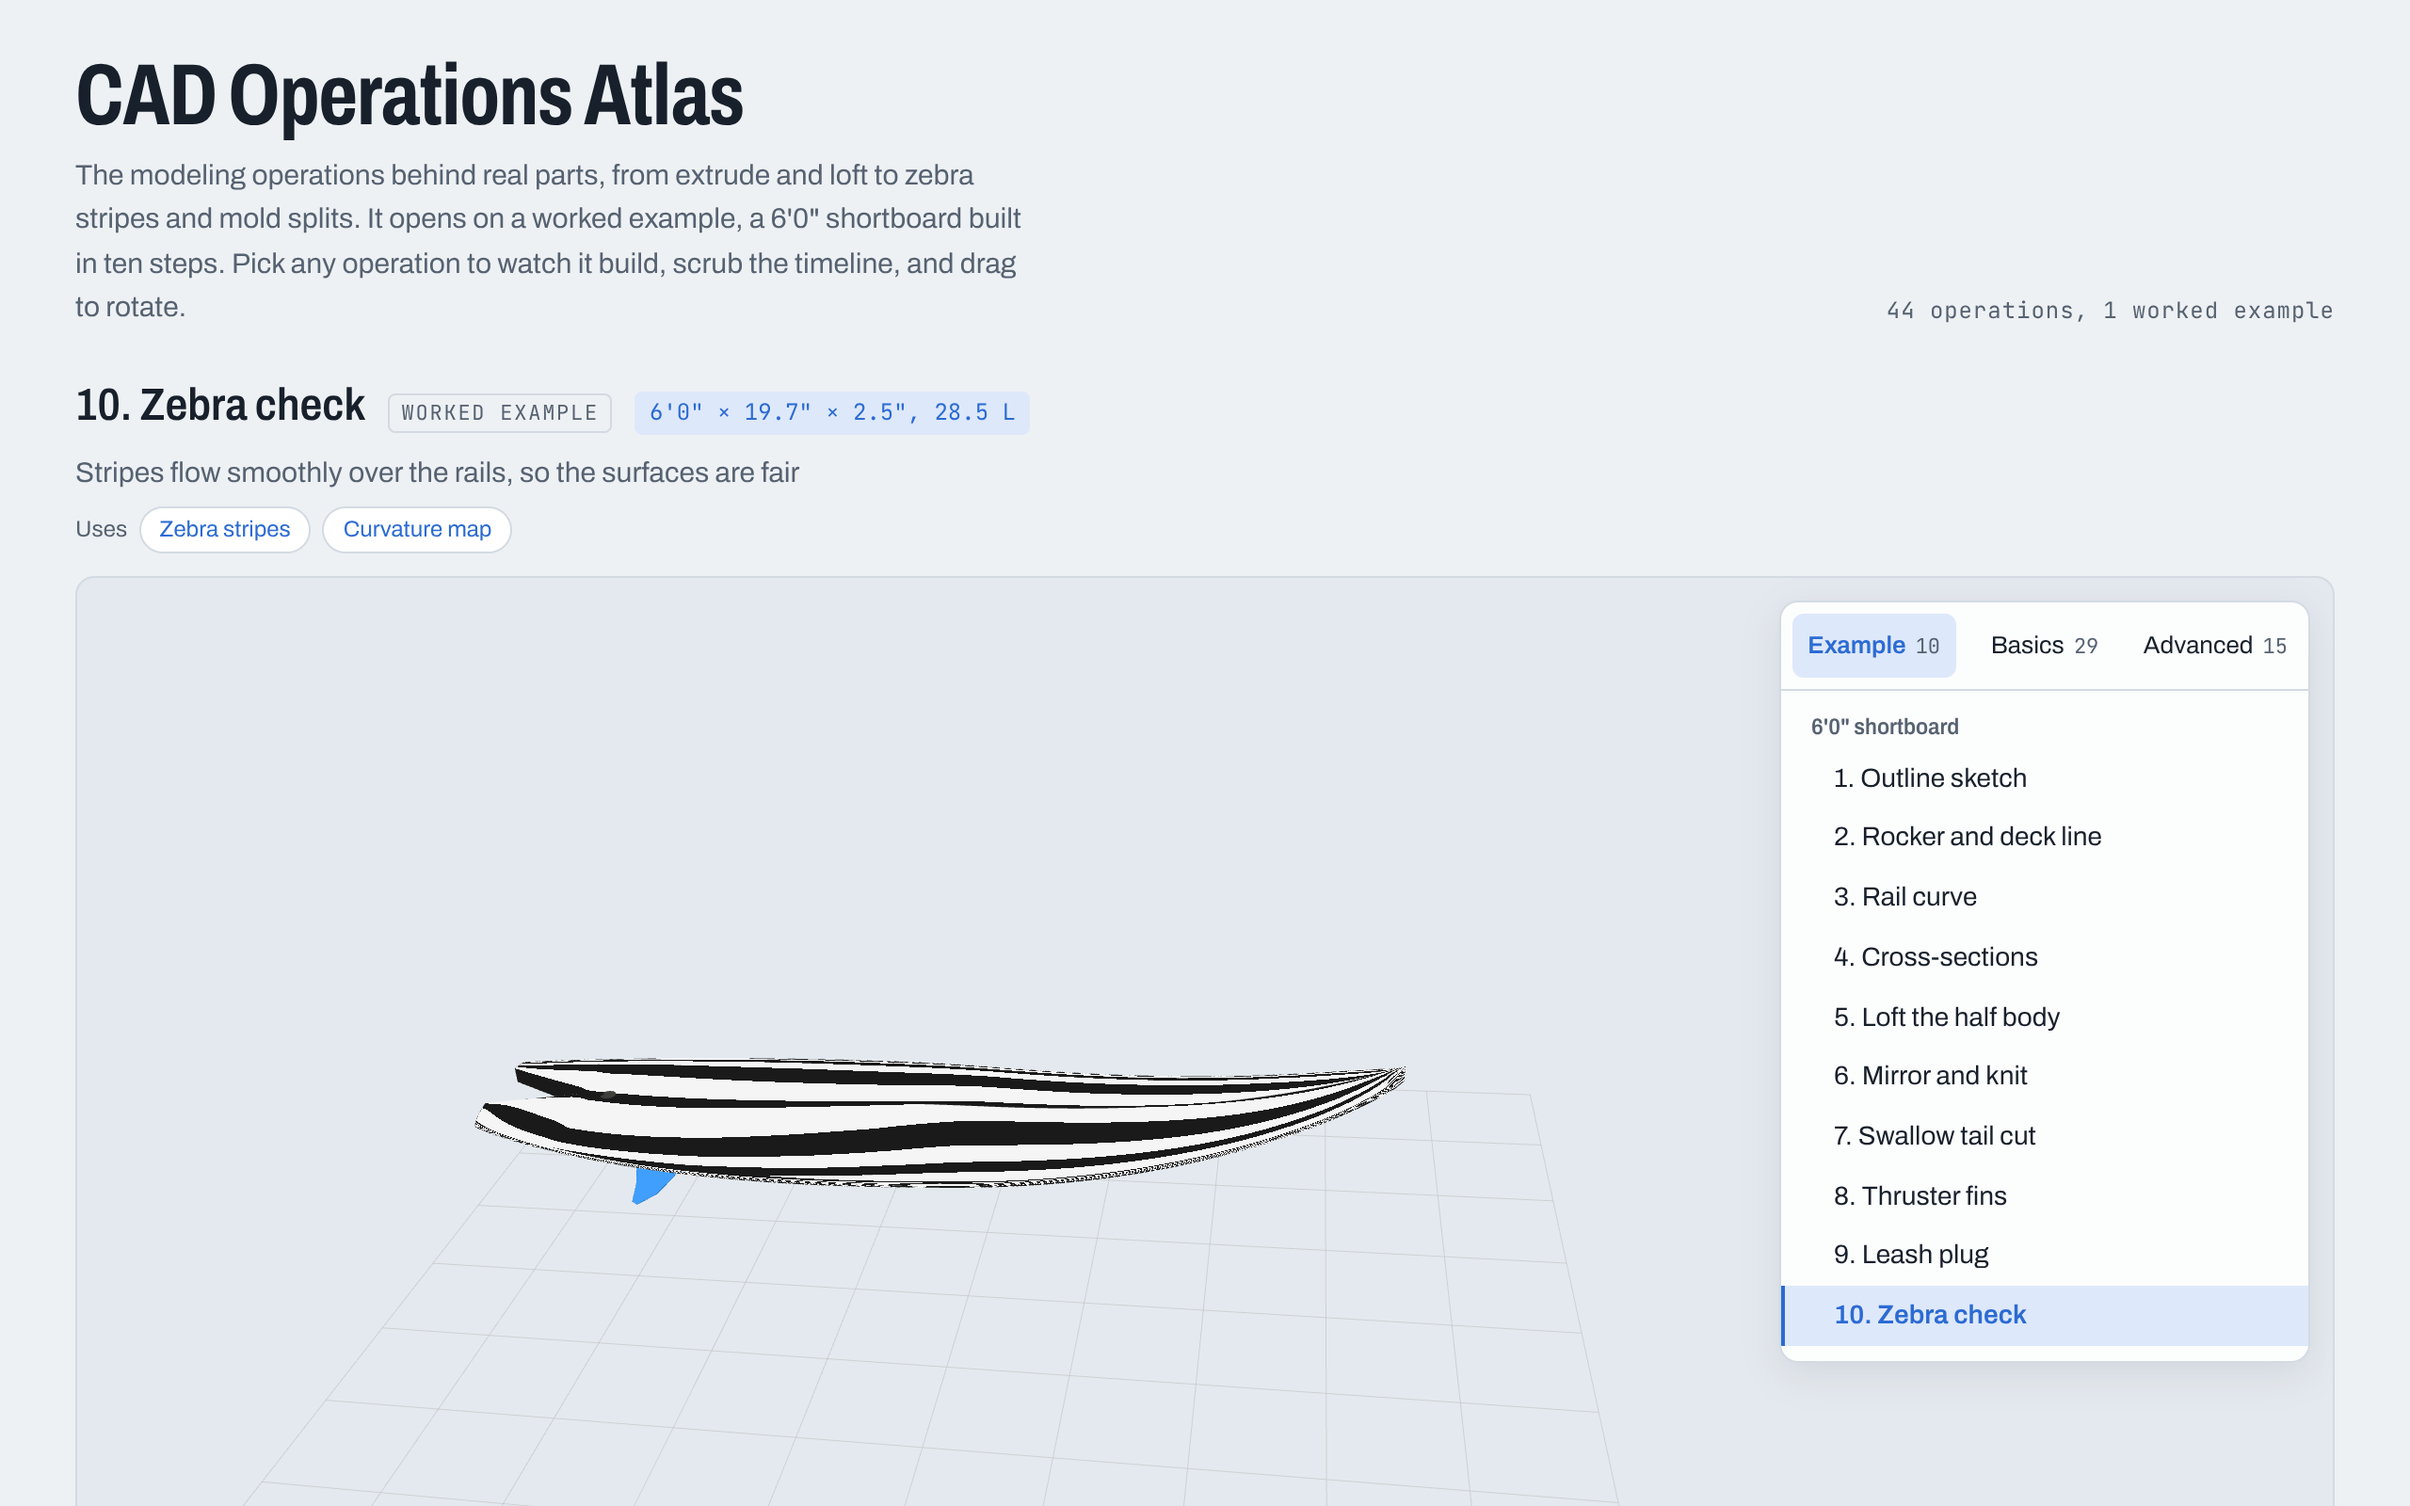
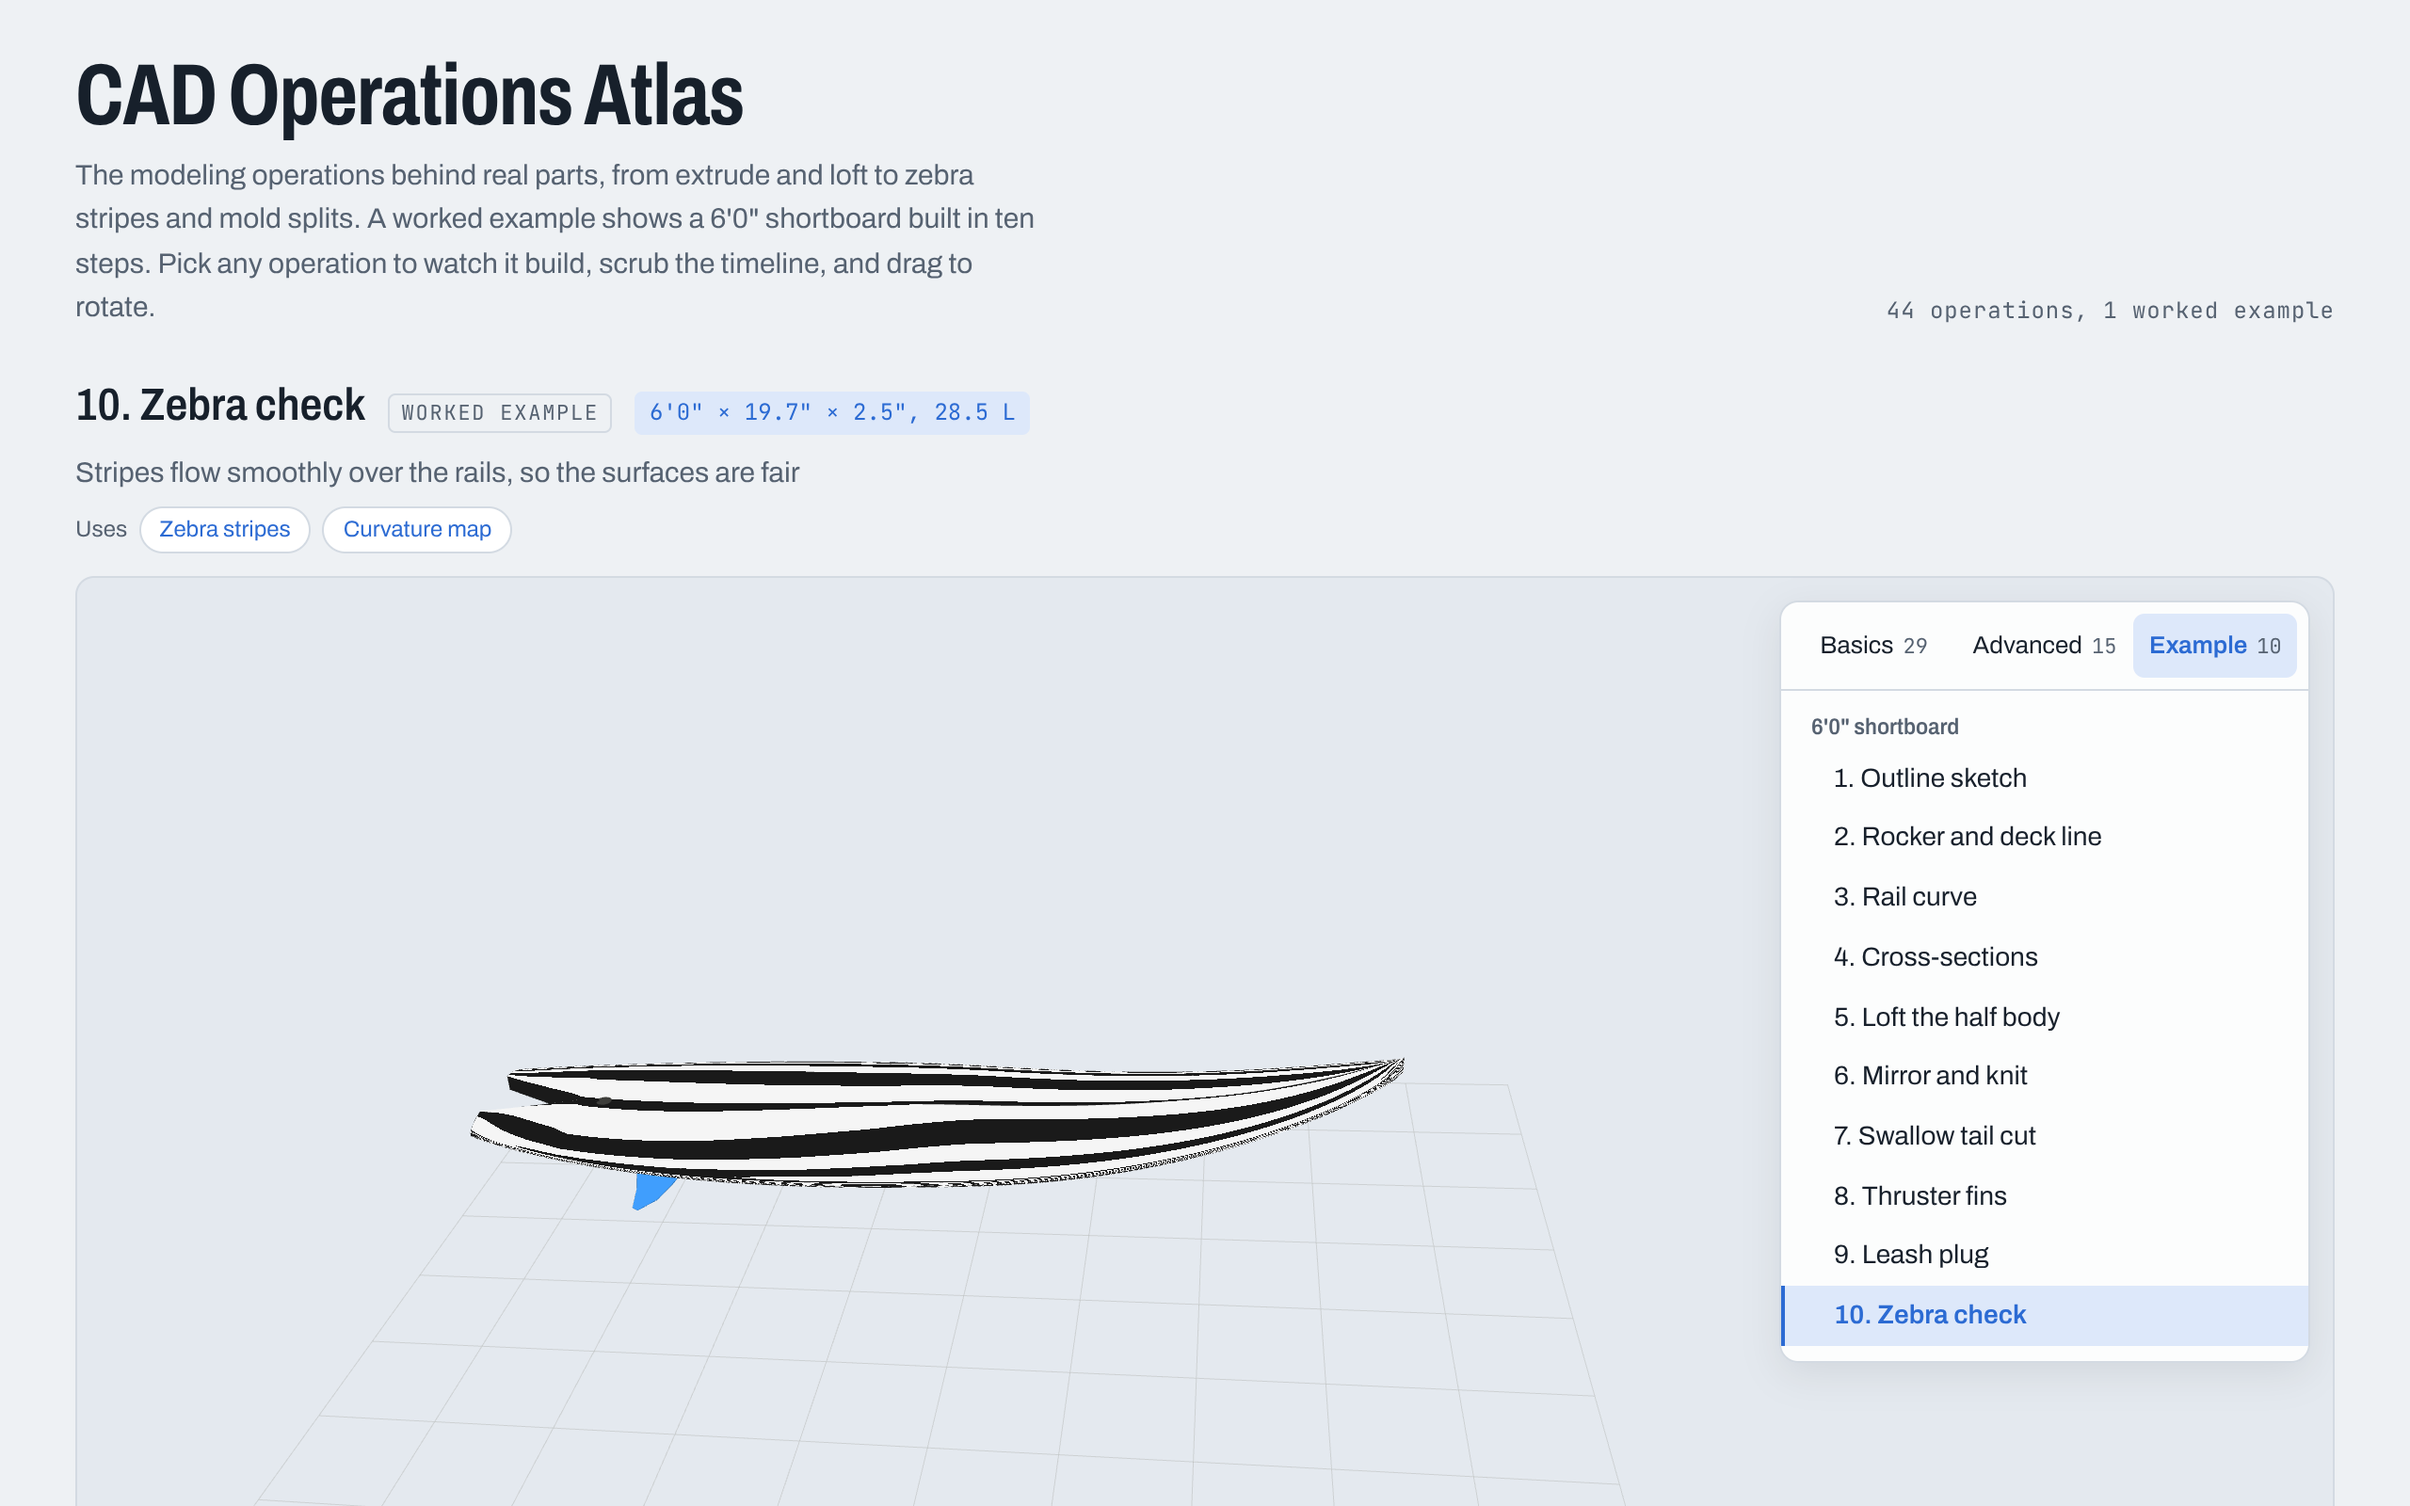
Order tabs Basics, Advanced, Example and open on Basics
The page now starts on Extrude with the Basics tab open; the worked
shortboard example moves to the last tab and still auto-advances
through its steps when opened.

Claude-Session: https://claude.ai/code/session_016hYqAyPtgBLio6hxPZYfvW

diff --git a/index.html b/index.html
@@ -67,7 +67,7 @@ footer{color:var(--muted);font-size:13px;border-top:1px solid var(--line);paddin
   <header>
     <div>
       <h1>CAD Operations Atlas</h1>
-      <p class="lede">The modeling operations behind real parts, from extrude and loft to zebra stripes and mold splits. It opens on a worked example, a 6'0" shortboard built in ten steps. Pick any operation to watch it build, scrub the timeline, and drag to rotate.</p>
+      <p class="lede">The modeling operations behind real parts, from extrude and loft to zebra stripes and mold splits. A worked example shows a 6'0" shortboard built in ten steps. Pick any operation to watch it build, scrub the timeline, and drag to rotate.</p>
     </div>
     <span class="count" id="count"></span>
   </header>
@@ -208,10 +208,10 @@ const EXOPS=[
 ["9. Leash plug","Revolved cut for the leash plug on the deck",["revolve","cut-and-hole"],t=>{board(1,1,MAT.res);fins(1,1,MAT.res);plug(t);return 'Leash plug';}],
 ["10. Zebra check","Stripes flow smoothly over the rails, so the surfaces are fair",["zebra-stripes","curvature-map"],t=>{board(1,1,MAT.zebra);fins(1,1,MAT.res);plug(1);return '6\'0" × '+BOARD.W+'" × '+BOARD.T+'", '+BOARD.L+' L';}]
 ].map((e,i)=>[EXT,EXG,e[0],e[1],e[3],'surfboard-'+(i+1),e[2]]);
-OPS.unshift(...EXOPS);
+OPS.push(...EXOPS);
 const slug=s=>s.toLowerCase().replace(/[^a-z0-9]+/g,'-').replace(/^-|-$/g,'');
 OPS.forEach(o=>{if(o.length<6)o.push(slug(o[2]));});
-const NEX=EXOPS.length;
+const NEX=EXOPS.length,EX0=OPS.length-NEX,nextEx=i=>EX0+(i-EX0+1)%NEX;
 document.getElementById('count').textContent=(OPS.length-NEX)+' operations, 1 worked example';
 
 const vw=document.getElementById('vw');
@@ -240,14 +240,14 @@ function openTier(name,open){Object.entries(tiers).forEach(([k,t])=>{const on=k=
 OPS.forEach((o,i)=>{if(o[0]!==tier){tier=o[0];grp='';const name=tier,b=document.createElement('button');b.type='button';b.className='tier';b.innerHTML='<span></span><span class="n"></span>';b.firstChild.textContent=name==='Worked example'?'Example':name;b.title=name;box=document.createElement('div');box.className='items';box.id='tier-'+slug(name);b.setAttribute('aria-controls',box.id);b.onclick=()=>openTier(name,b.getAttribute('aria-expanded')!=='true');box.hidden=true;document.getElementById('tabs').append(b);tree.append(box);tiers[name]={b,box,n:0};}tiers[tier].n++;tiers[tier].b.lastChild.textContent=tiers[tier].n;if(o[1]!==grp){grp=o[1];const h=document.createElement('div');h.className='grp';h.textContent=grp;box.appendChild(h);}const a=document.createElement('a');a.href='#'+o[5];a.textContent=o[2];a.onclick=e=>{e.preventDefault();go(i);if(narrow.matches)openTier('',false);};box.appendChild(a);links.push(a);});
 const usesEl=document.getElementById('uses'),nx=document.getElementById('nx');
 function go(i){select(i);openTier(OPS[i][0],true);try{history.replaceState(null,'','#'+OPS[i][5]);}catch(_){}}
-nx.onclick=()=>go((cur+1)%NEX);
+nx.onclick=()=>go(nextEx(cur));
 function select(i){cur=i;T=0;start=performance.now();setPlay(!reduce);links.forEach(x=>x.classList.remove('on'));links[i].classList.add('on');const o=OPS[i];document.getElementById('tn').textContent=o[2];document.getElementById('td').textContent=o[3];document.getElementById('lv').textContent=o[0];
 usesEl.replaceChildren();const u=o[6]||[];usesEl.hidden=!u.length;if(u.length){const s=document.createElement('span');s.textContent='Uses';usesEl.appendChild(s);u.forEach(sl=>{const j=OPS.findIndex(q=>q[5]===sl);if(j<0)return;const b=document.createElement('button');b.type='button';b.textContent=OPS[j][2];b.onclick=()=>go(j);usesEl.appendChild(b);});}
-nx.hidden=i>=NEX;nx.textContent=i===NEX-1?'Start over':'Next step';if(reduce){T=1;}}
+nx.hidden=i<EX0;nx.textContent=i===OPS.length-1?'Start over':'Next step';if(reduce){T=1;}}
 function fromHash(){const h=(location.hash||'').slice(1),i=OPS.findIndex(o=>o[5]===h);select(i>=0?i:0);openTier(OPS[cur][0],!narrow.matches);}
 window.addEventListener('hashchange',fromHash);fromHash();
 
-function loop(now){if(playing&&cur<NEX&&now-start>3900){select((cur+1)%NEX);}if(playing){const ph=((now-start)%4000)/2600;const x=Math.min(1,ph);T=x*x*(3-2*x);}
+function loop(now){if(playing&&cur>=EX0&&now-start>3900){select(nextEx(cur));}if(playing){const ph=((now-start)%4000)/2600;const x=Math.min(1,ph);T=x*x*(3-2*x);}
 const tq=Math.round(T*100)/100;if(tq!==lastT||cur!==lastOp){T=tq;build();lastT=tq;lastOp=cur;sl.value=Math.round(T*100);pc.textContent=Math.round(T*100)+'%';}
 if(!drag&&!reduce)ry+=0.003;piv.rotation.set(rx,ry,0);ren.render(scene,cam);requestAnimationFrame(loop);}
 requestAnimationFrame(loop);

diff --git a/README.md b/README.md
@@ -32,7 +32,7 @@ An interactive 3D guide to the modeling operations behind real parts, from extru
 
 ## Worked example: a 6'0" shortboard
 
-The page opens on a complete part built only from operations in the atlas. Each step has "Uses" chips that jump to the operations it relies on.
+The Example tab holds a complete part built only from operations in the atlas. Each step has "Uses" chips that jump to the operations it relies on.
 
 | Step | What happens | Uses |
 | --- | --- | --- |
